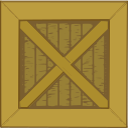
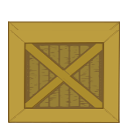
Open image state for crate

diff --git a/tactics_project/src/com/marklynch/objects/Templates.java b/tactics_project/src/com/marklynch/objects/Templates.java
@@ -220,8 +220,8 @@ public class Templates {
 	public static final Chest CHEST = new Chest("Chest", 200, "chest.png", "chest_open.png", null, new Inventory(), 1,
 			1, 0f, 0f, 1f, 1f, 1f, null, 0.5f, 0.5f, false, 0f, 0f, 0f, 0f, 100f, 25f, 135, null, false,
 			GameObject.generateNewTemplateId());
-	public static final Chest CRATE = new Chest("Crate", 200, "crate.png", "crate.png", null, new Inventory(), 1, 1, 0f,
-			0f, 1f, 1f, 1f, null, 0.5f, 0.5f, false, 0f, 0f, 0f, 0f, 100f, 25f, 135, null, false,
+	public static final Chest CRATE = new Chest("Crate", 200, "crate.png", "crate_open.png", null, new Inventory(), 1,
+			1, 0f, 0f, 1f, 1f, 1f, null, 0.5f, 0.5f, false, 0f, 0f, 0f, 0f, 100f, 25f, 135, null, false,
 			GameObject.generateNewTemplateId());
 	public static final RemoteDoor FALSE_WALL = new RemoteDoor("Wall", 500, "wall.png", null, new Inventory(), 1, 1, 0f,
 			0f, 1f, 1f, 10f, null, 0.5f, 0.5f, false, 0f, 0f, 0f, 0f, 100f, 40f, 200, null, false,
